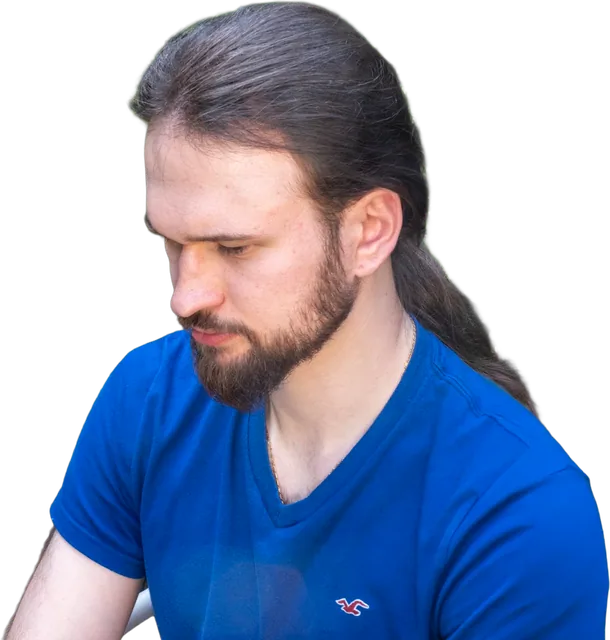
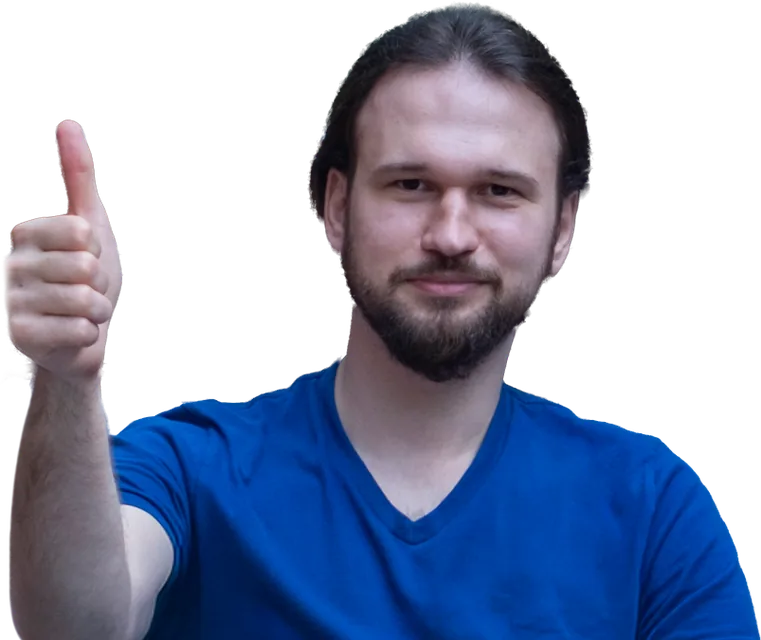
Nowe zdjęcie Konrada (kciuk w górę), baner z nowym Konradem (og.jpg?v=4)
Claude-Session: https://claude.ai/code/session_01Q6mtA3FM7HAc1Vv4gDvJxZ

diff --git a/tools/og-banner.html b/tools/og-banner.html
@@ -16,7 +16,7 @@ h1{position:absolute;left:48px;top:78px;font:400 146px/.9 Anton;color:#D9FF3D;-w
 .stamp small{display:block;font:700 10px CP;letter-spacing:.14em}
 .stage{position:absolute;left:-20px;right:-20px;bottom:-40px;height:130px;background:#FF5FD2;border-top:5px solid #0B0B1E;transform:rotate(-1.5deg)}
 .crew{position:absolute;left:0;right:0;bottom:0;display:flex;justify-content:center;align-items:flex-end;height:330px}
-.crew img{height:192px;width:auto;margin-left:-67px;filter:drop-shadow(4px 0 0 #0B0B1E) drop-shadow(-3px -2px 0 #0B0B1E) drop-shadow(6px 6px 0 rgba(11,11,30,.55));position:relative}
+.crew img{height:192px;width:auto;margin-left:-72px;filter:drop-shadow(4px 0 0 #0B0B1E) drop-shadow(-3px -2px 0 #0B0B1E) drop-shadow(6px 6px 0 rgba(11,11,30,.55));position:relative}
 .crew img:first-child{margin-left:0}
 .crew img.boss{height:238px}
 .crew img:nth-child(odd){transform:rotate(-2deg)} .crew img:nth-child(even){transform:rotate(2deg)}
@@ -29,6 +29,6 @@ h1{position:absolute;left:48px;top:78px;font:400 146px/.9 Anton;color:#D9FF3D;-w
 <div class="info"><div class="k">WEZWANIE DO STAWIENIA SIĘ</div><div class="big">SOBOTA 21.11<br>GODZ. 19:00</div><div class="sm">Miejsce ściśle tajne, ale wiecie jakie.<br>Regulamin, ankiety i przysięga:</div><div class="url">wodystopad.pl →</div></div>
 <div class="stamp"><span>PILNE<small>ZAZNACZYĆ NA STRONIE</small></span></div>
 <div class="stage"></div>
-<div class="crew"><img src="http://localhost:8765/img/kasia.webp" style="z-index:5"><img src="http://localhost:8765/img/ola.webp" style="z-index:6"><img src="http://localhost:8765/img/klaudia.webp" style="z-index:7"><img src="http://localhost:8765/img/arek.webp" style="z-index:8"><img src="http://localhost:8765/img/wiktorek.webp" class=boss style="z-index:9"><img src="http://localhost:8765/img/lucja.webp" style="z-index:8"><img src="http://localhost:8765/img/magda.webp" style="z-index:7"><img src="http://localhost:8765/img/konrad.webp" style="z-index:6"><img src="http://localhost:8765/img/koli.webp" style="z-index:5"></div>
+<div class="crew"><img src="http://localhost:8765/img/kasia.webp" style="z-index:5"><img src="http://localhost:8765/img/ola.webp" style="z-index:6"><img src="http://localhost:8765/img/klaudia.webp" style="z-index:7"><img src="http://localhost:8765/img/arek.webp" style="z-index:8"><img src="http://localhost:8765/img/wiktorek.webp" class=boss style="z-index:9"><img src="http://localhost:8765/img/lucja.webp" style="z-index:8"><img src="http://localhost:8765/img/magda.webp" style="z-index:7"><img src="http://localhost:8765/img/konrad.webp" style="z-index:6"><img src="http://localhost:8765/tools/og-img/koli.webp" style="z-index:5"></div>
 
 </body></html>

diff --git a/index.html b/index.html
@@ -13,13 +13,13 @@
 <meta property="og:url" content="https://wodystopad.pl/">
 <meta property="og:site_name" content="Wódystopad">
 <meta property="og:locale" content="pl_PL">
-<meta property="og:image" content="https://wodystopad.pl/og.jpg?v=3">
-<meta property="og:image:secure_url" content="https://wodystopad.pl/og.jpg?v=3">
+<meta property="og:image" content="https://wodystopad.pl/og.jpg?v=4">
+<meta property="og:image:secure_url" content="https://wodystopad.pl/og.jpg?v=4">
 <meta property="og:image:type" content="image/jpeg">
 <meta property="og:image:width" content="1200">
 <meta property="og:image:height" content="630">
 <meta property="og:image:alt" content="WÓDYSTOPAD 2026 — wezwanie do stawienia się: sobota 21.11, godz. 19:00. Na zdjęciu dziewięcioro Wódowiczów.">
-<meta name="twitter:image" content="https://wodystopad.pl/og.jpg?v=3">
+<meta name="twitter:image" content="https://wodystopad.pl/og.jpg?v=4">
 <meta name="twitter:card" content="summary_large_image">
 <link rel="icon" href="favicon.svg" type="image/svg+xml">
 <link rel="apple-touch-icon" href="apple-touch-icon.png">
